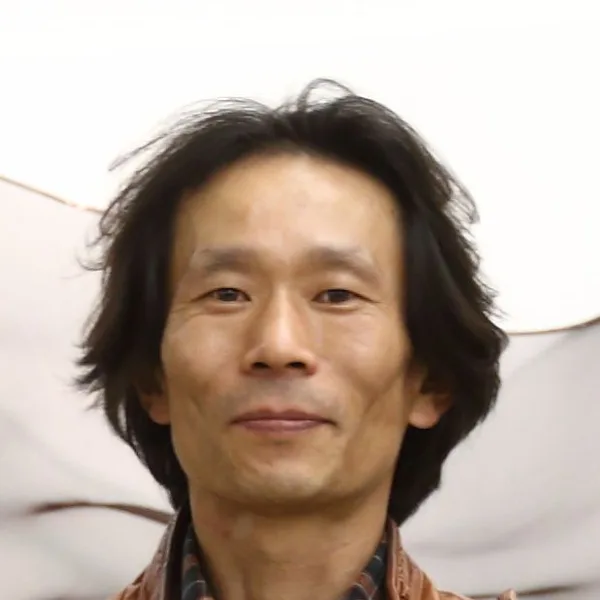
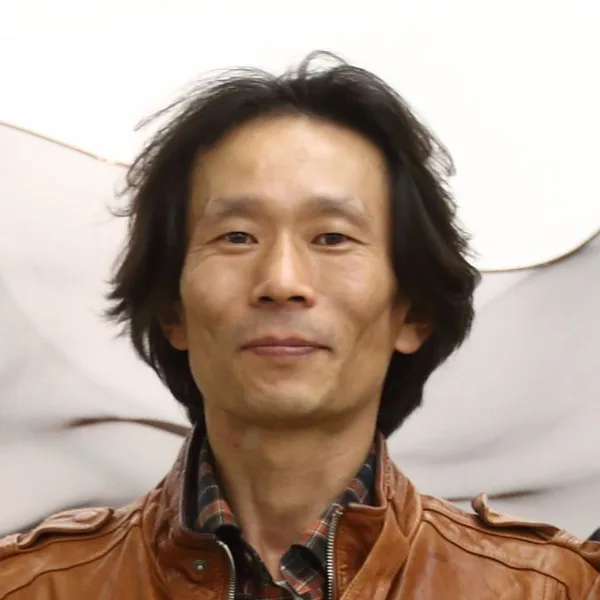
fix(전시·프로그램): 오픈 그라운드 프로필 크롭을 카드 비율에 맞게 재조정, 프로그램 탭 활성 위치 스크롤
- 카드(4:3, 상단 기준) 안에서 얼굴이 잘리지 않도록 얼굴 크기·위치 재조정
- 모바일에서 활성 탭이 가로 스크롤 밖에 있을 때 자동으로 보이게 이동

diff --git a/src/app/[locale]/program/page.tsx b/src/app/[locale]/program/page.tsx
@@ -1,6 +1,6 @@
 'use client';
 
-import React, { useState } from 'react';
+import React, { useEffect, useRef, useState } from 'react';
 import Link from 'next/link';
 import GnbHeader from '@/components/site-a/GnbHeader';
 import Footer from '@/components/site-a/Footer';
@@ -19,6 +19,14 @@ export default function ProgramPage({ params }: PageProps) {
 
   const [citizenTab, setCitizenTab] = useState<'busking' | 'dowonjang' | 'november'>('november');
   const [zoomedImage, setZoomedImage] = useState<{ src: string; alt: string } | null>(null);
+  const citizenTabsRef = useRef<HTMLDivElement>(null);
+
+  // 좁은 화면에서 활성 탭이 가로 스크롤 밖에 있으면 보이는 위치로 이동
+  useEffect(() => {
+    const bar = citizenTabsRef.current;
+    const active = bar?.querySelector<HTMLElement>('[data-active="true"]');
+    if (bar && active) bar.scrollLeft = active.offsetLeft - (bar.clientWidth - active.offsetWidth) / 2;
+  }, [citizenTab]);
 
   return (
     <div className="min-h-screen bg-[#0A0A0A] text-white font-sans antialiased flex flex-col justify-between">
@@ -75,9 +83,10 @@ export default function ProgramPage({ params }: PageProps) {
 
             {/* Inner Tabs: Busking & Dowonjang */}
             <div className="space-y-6">
-              <div className="flex border-b border-white/20 gap-2 overflow-x-auto hide-scrollbar">
+              <div ref={citizenTabsRef} className="flex border-b border-white/20 gap-2 overflow-x-auto hide-scrollbar relative">
                 <button
                   type="button"
+                  data-active={citizenTab === 'busking'}
                   onClick={() => setCitizenTab('busking')}
                   className={`flex items-center gap-2 px-4 sm:px-6 py-2.5 sm:py-3 font-mono text-xs sm:text-sm font-bold transition-all border-b-2 -mb-[2px] whitespace-nowrap flex-shrink-0 ${
                     citizenTab === 'busking'
@@ -90,6 +99,7 @@ export default function ProgramPage({ params }: PageProps) {
                 </button>
                 <button
                   type="button"
+                  data-active={citizenTab === 'dowonjang'}
                   onClick={() => setCitizenTab('dowonjang')}
                   className={`flex items-center gap-2 px-4 sm:px-6 py-2.5 sm:py-3 font-mono text-xs sm:text-sm font-bold transition-all border-b-2 -mb-[2px] whitespace-nowrap flex-shrink-0 ${
                     citizenTab === 'dowonjang'
@@ -102,6 +112,7 @@ export default function ProgramPage({ params }: PageProps) {
                 </button>
                 <button
                   type="button"
+                  data-active={citizenTab === 'november'}
                   onClick={() => setCitizenTab('november')}
                   className={`flex items-center gap-2 px-4 sm:px-6 py-2.5 sm:py-3 font-mono text-xs sm:text-sm font-bold transition-all border-b-2 -mb-[2px] whitespace-nowrap flex-shrink-0 ${
                     citizenTab === 'november'
